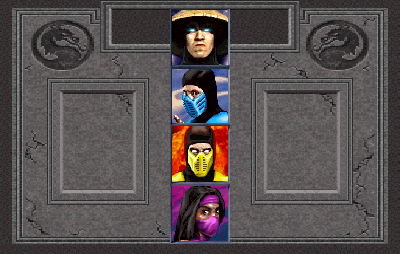
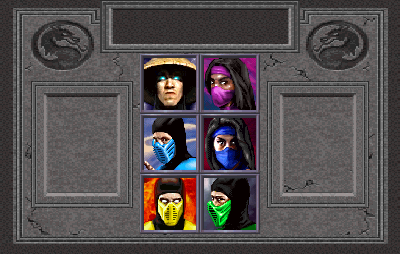
Sprites para os Novos Personagens

diff --git a/src/main/java/com/vitor/combate_mortal/main/GamePanel.java b/src/main/java/com/vitor/combate_mortal/main/GamePanel.java
@@ -12,11 +12,6 @@ import com.vitor.combate_mortal.states.Vitoria;
 
 public class GamePanel extends JPanel implements Runnable{
 
-    /**
-     *
-     */
-    private static final long serialVersionUID = 1L;
-
     Thread gameThread;
     Inputs inp;
     Frame frame;
